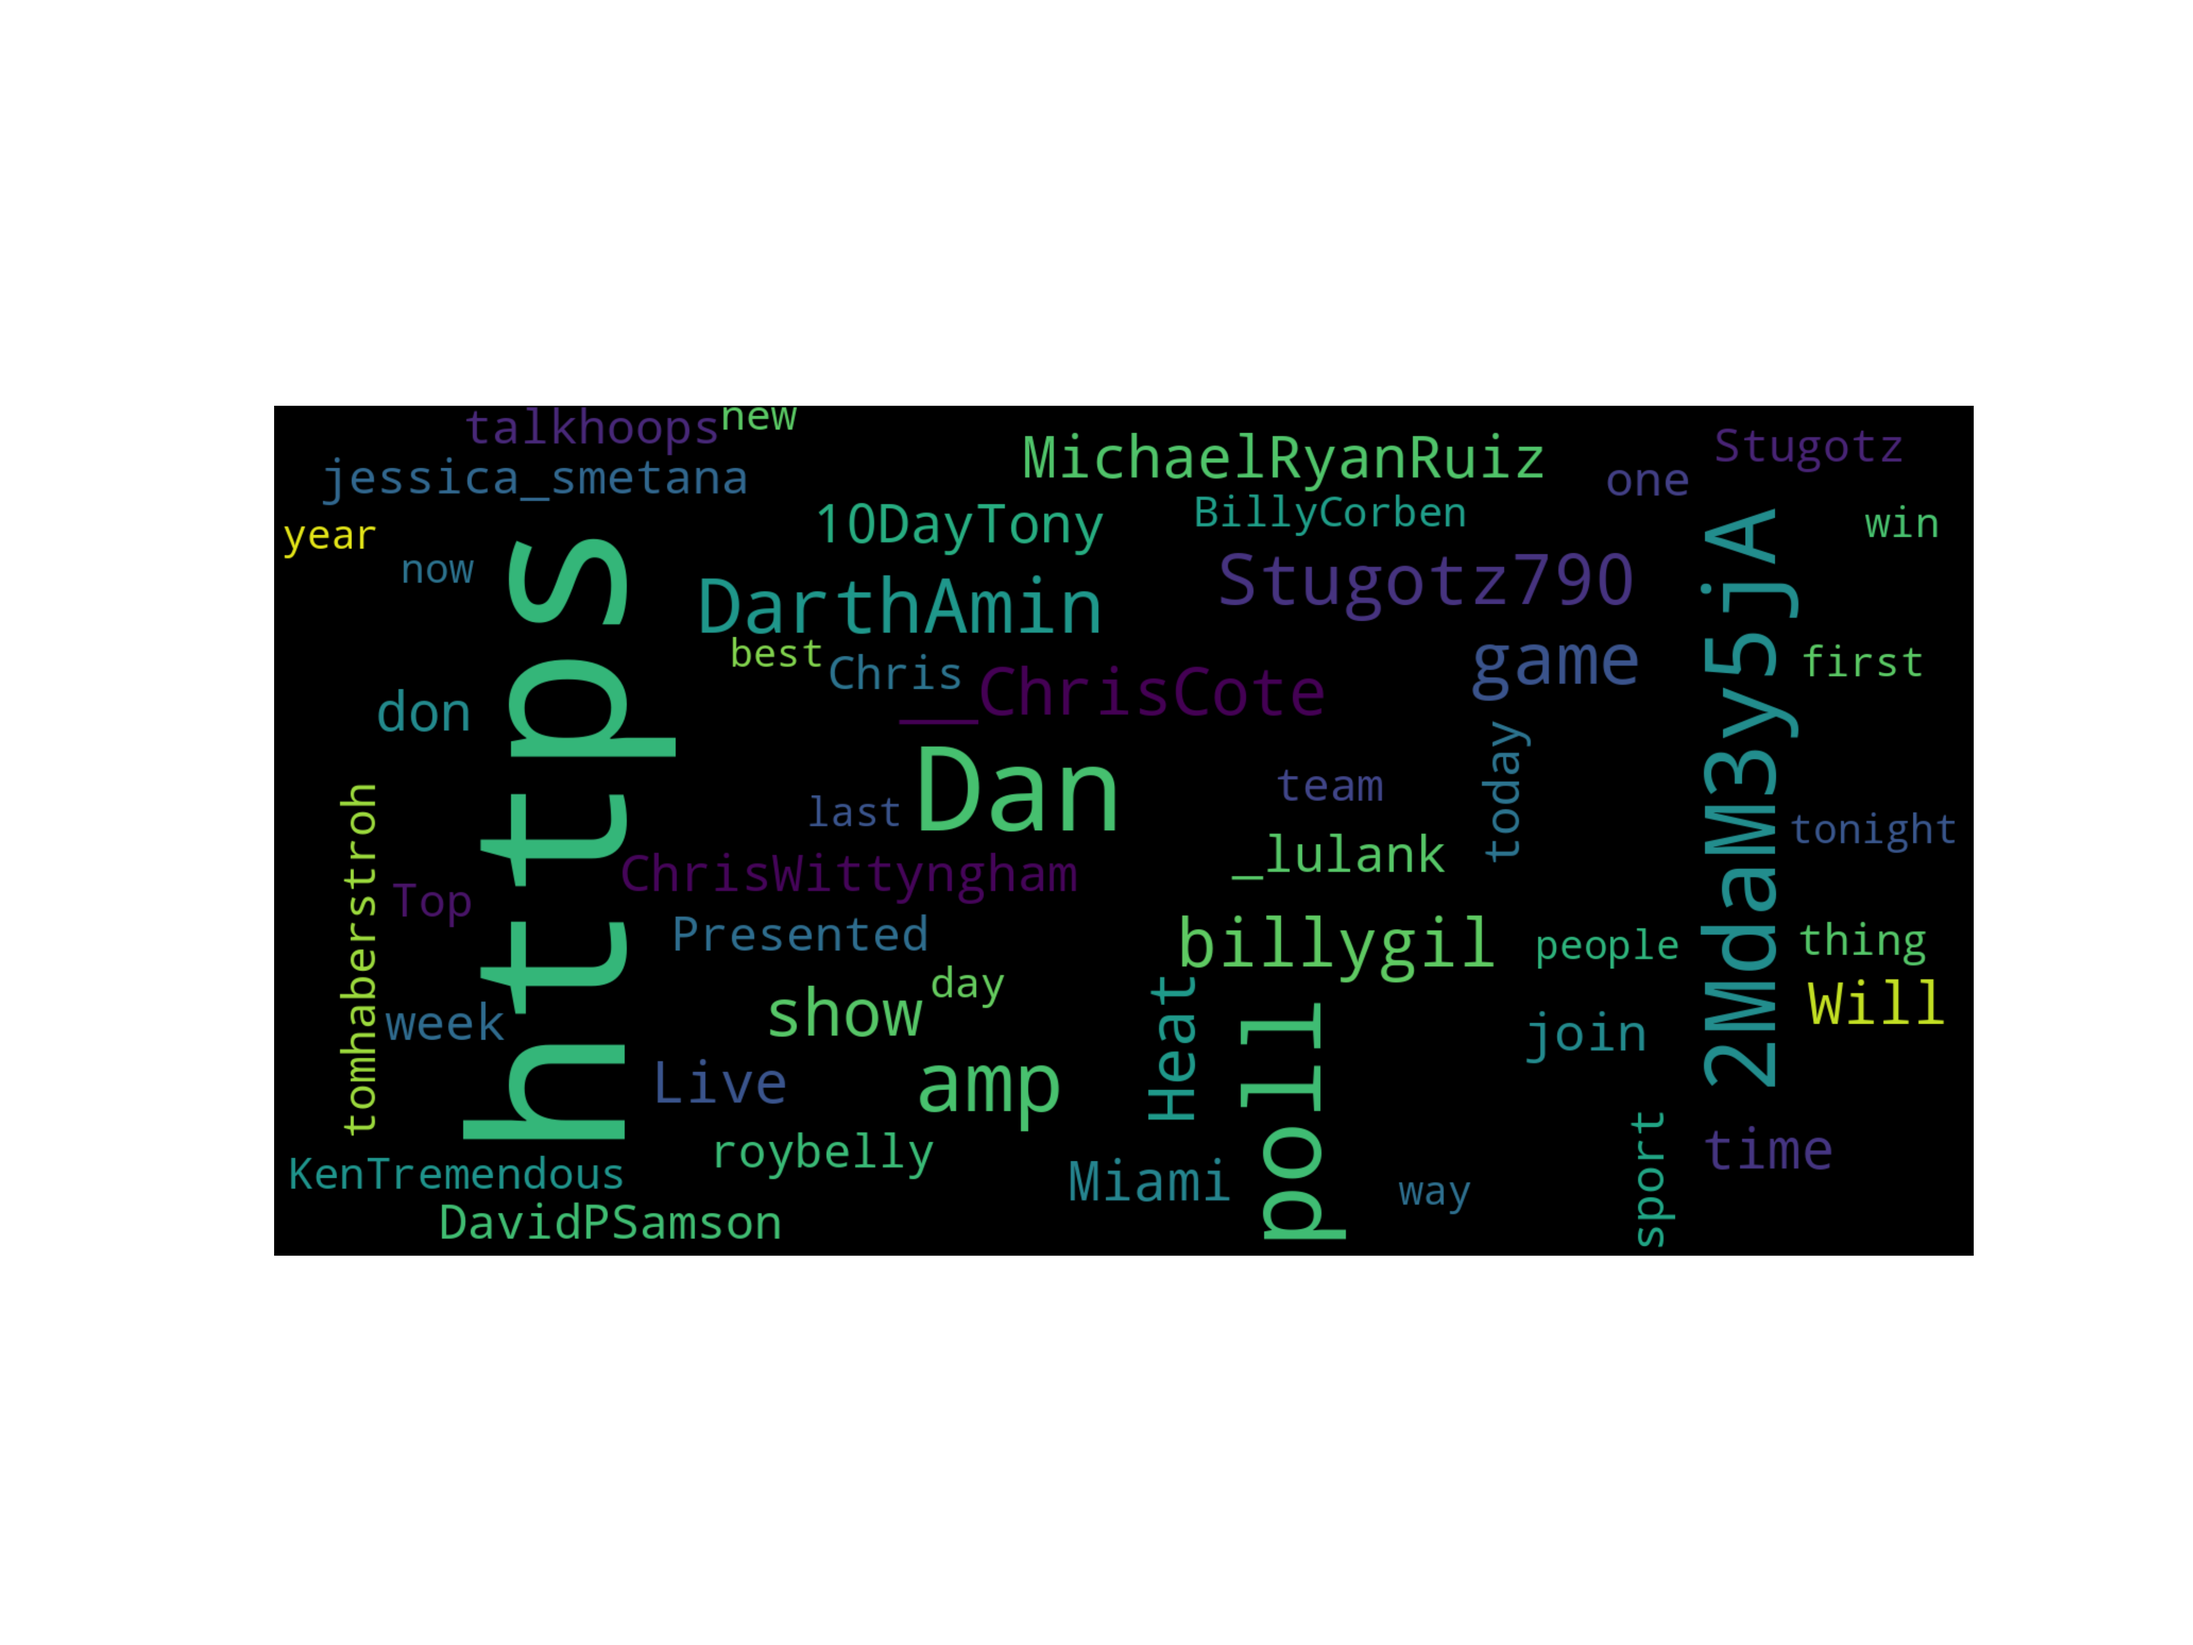
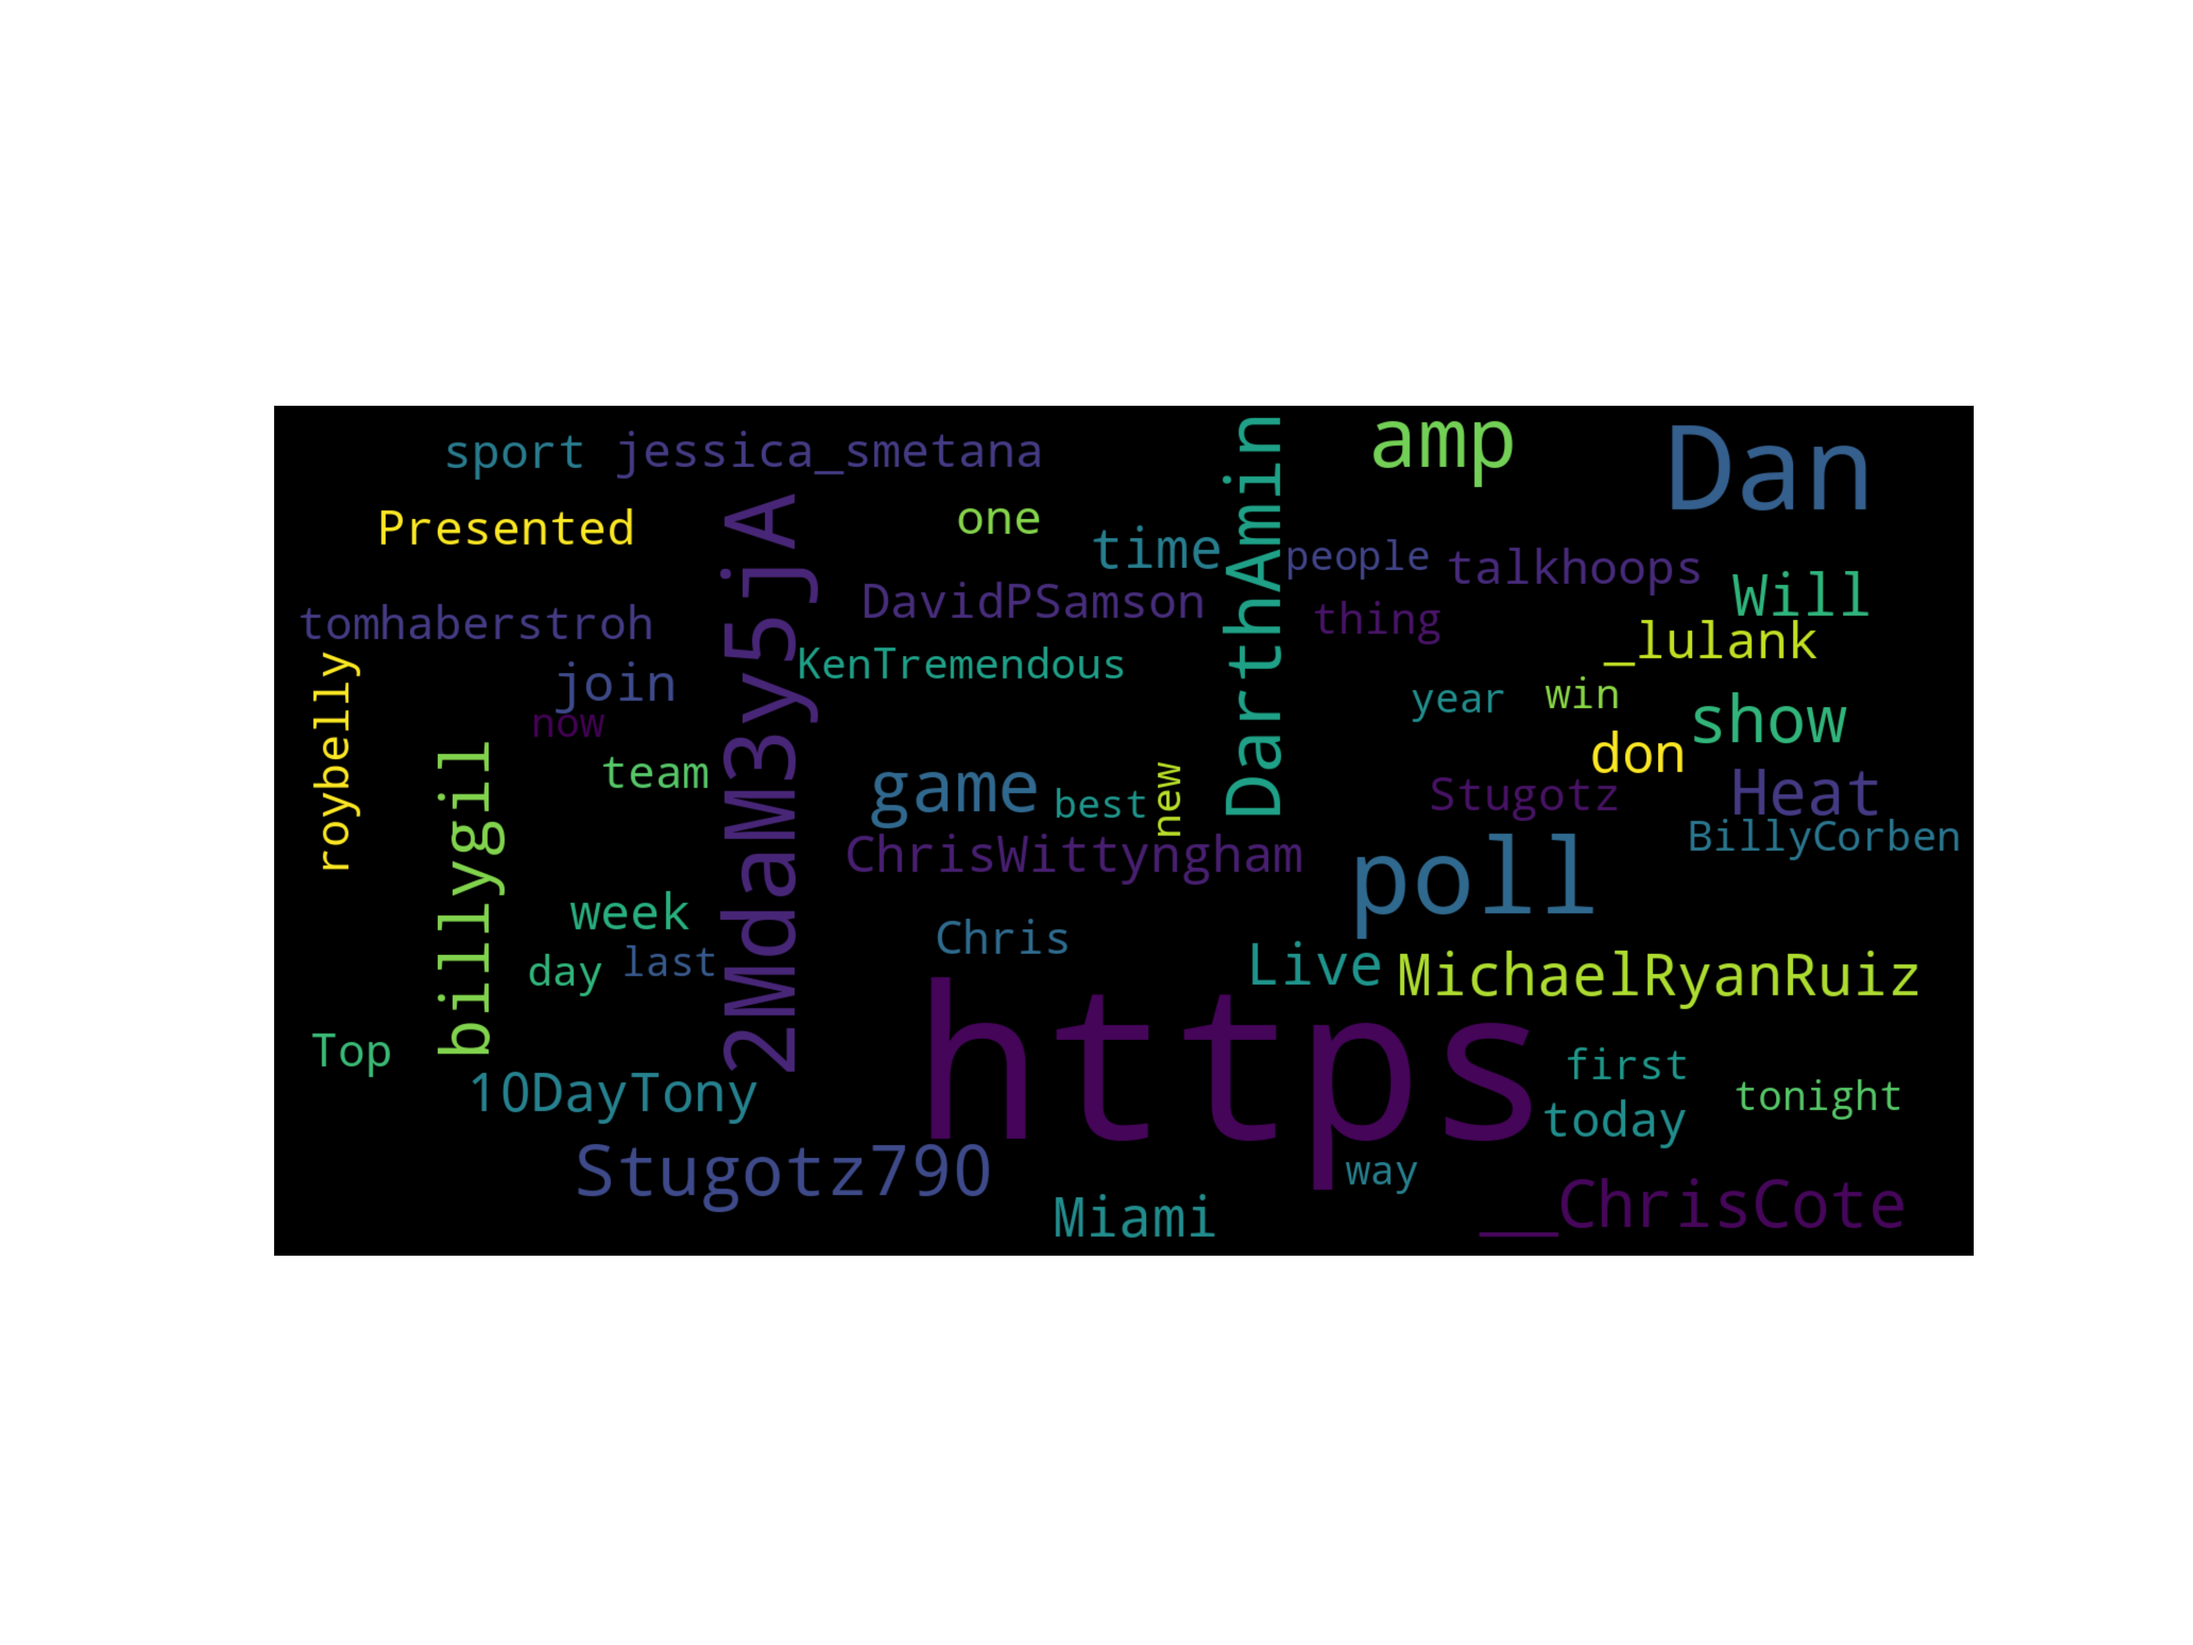
Add files via upload

Changed region(s): [[0.125, 0.248, 0.9062, 0.775], [0.125, 0.713, 0.1562, 0.744]]

diff --git a/ClusterTweets.py b/ClusterTweets.py
@@ -1,0 +1,36 @@
+from gensim.test.utils import datapath
+from gensim.models.word2vec import Text8Corpus
+from gensim.models.phrases import Phrases, Phraser
+from gensim.models import Word2Vec
+import multiprocessing
+from sklearn.cluster import KMeans 
+
+corpus = Text8Corpus(datapath('/home/rjones/twitter/tweets.txt'))
+
+phrases = Phrases(corpus, min_count=30, progress_per=10000, threshold=1)
+bigram = Phraser(phrases)
+
+sentences = bigram[corpus]
+
+cores = multiprocessing.cpu_count()
+
+w2v_model = Word2Vec(min_count=20,
+                        window=2,
+                        sample=6e-5,
+                        alpha=0.03,
+                        min_alpha=0.0007,
+                        negative=20,
+                        workers=cores-1)
+
+w2v_model.build_vocab(sentences, progress_per=10000)
+w2v_model.train(sentences, total_examples=w2v_model.corpus_count, epochs=30)
+
+word_vectors = w2v_model.wv
+
+kmeans = KMeans(n_clusters=2, max_iter=1000, random_state=True, n_init=50).fit(X=word_vectors.vectors)
+positive_cluster_center = kmeans.cluster_centers_[0]
+negative_cluster_center = kmeans.cluster_centers_[1]
+
+print(kmeans.cluster_centers_)
+print(word_vectors.similar_by_vector(positive_cluster_center, topn=10, restrict_vocab=None))
+print(word_vectors.similar_by_vector(negative_cluster_center, topn=10, restrict_vocab=None))

diff --git a/GetTweets.py b/GetTweets.py
@@ -88,3 +88,7 @@ plt.figure(figsize=(40,30))
 plt.imshow(wordcloud, interpolation="bilinear")
 plt.axis("off")
 plt.savefig('wordcloud.png')
+
+outfile = open("tweets.txt", "w")
+outfile.write(string)
+outfile.close()
